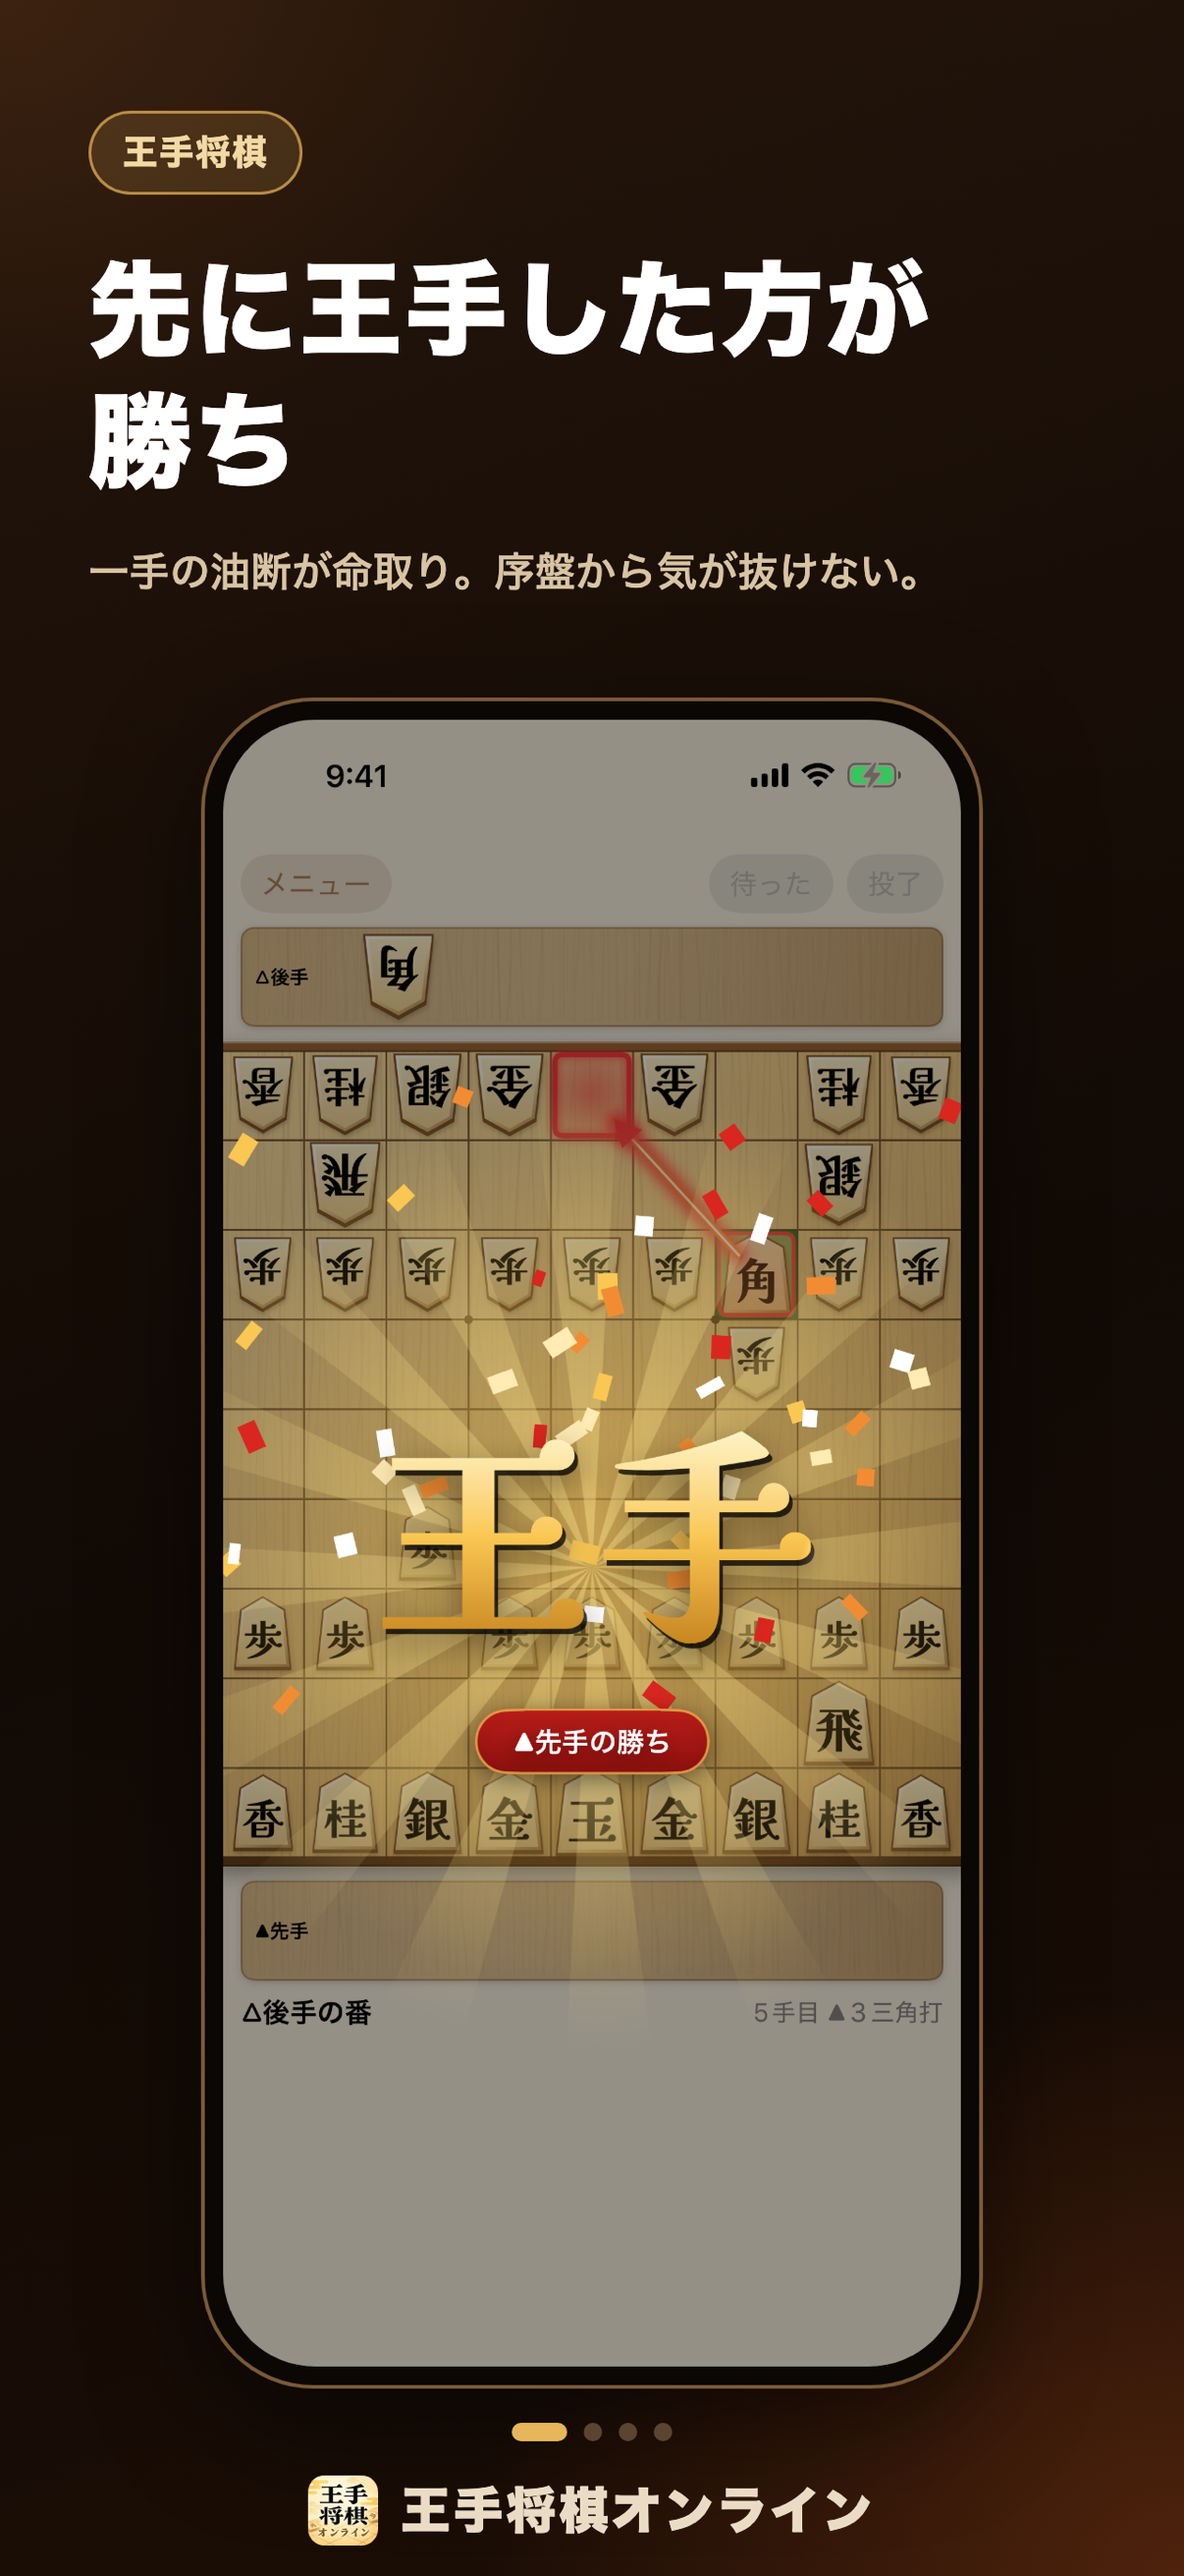
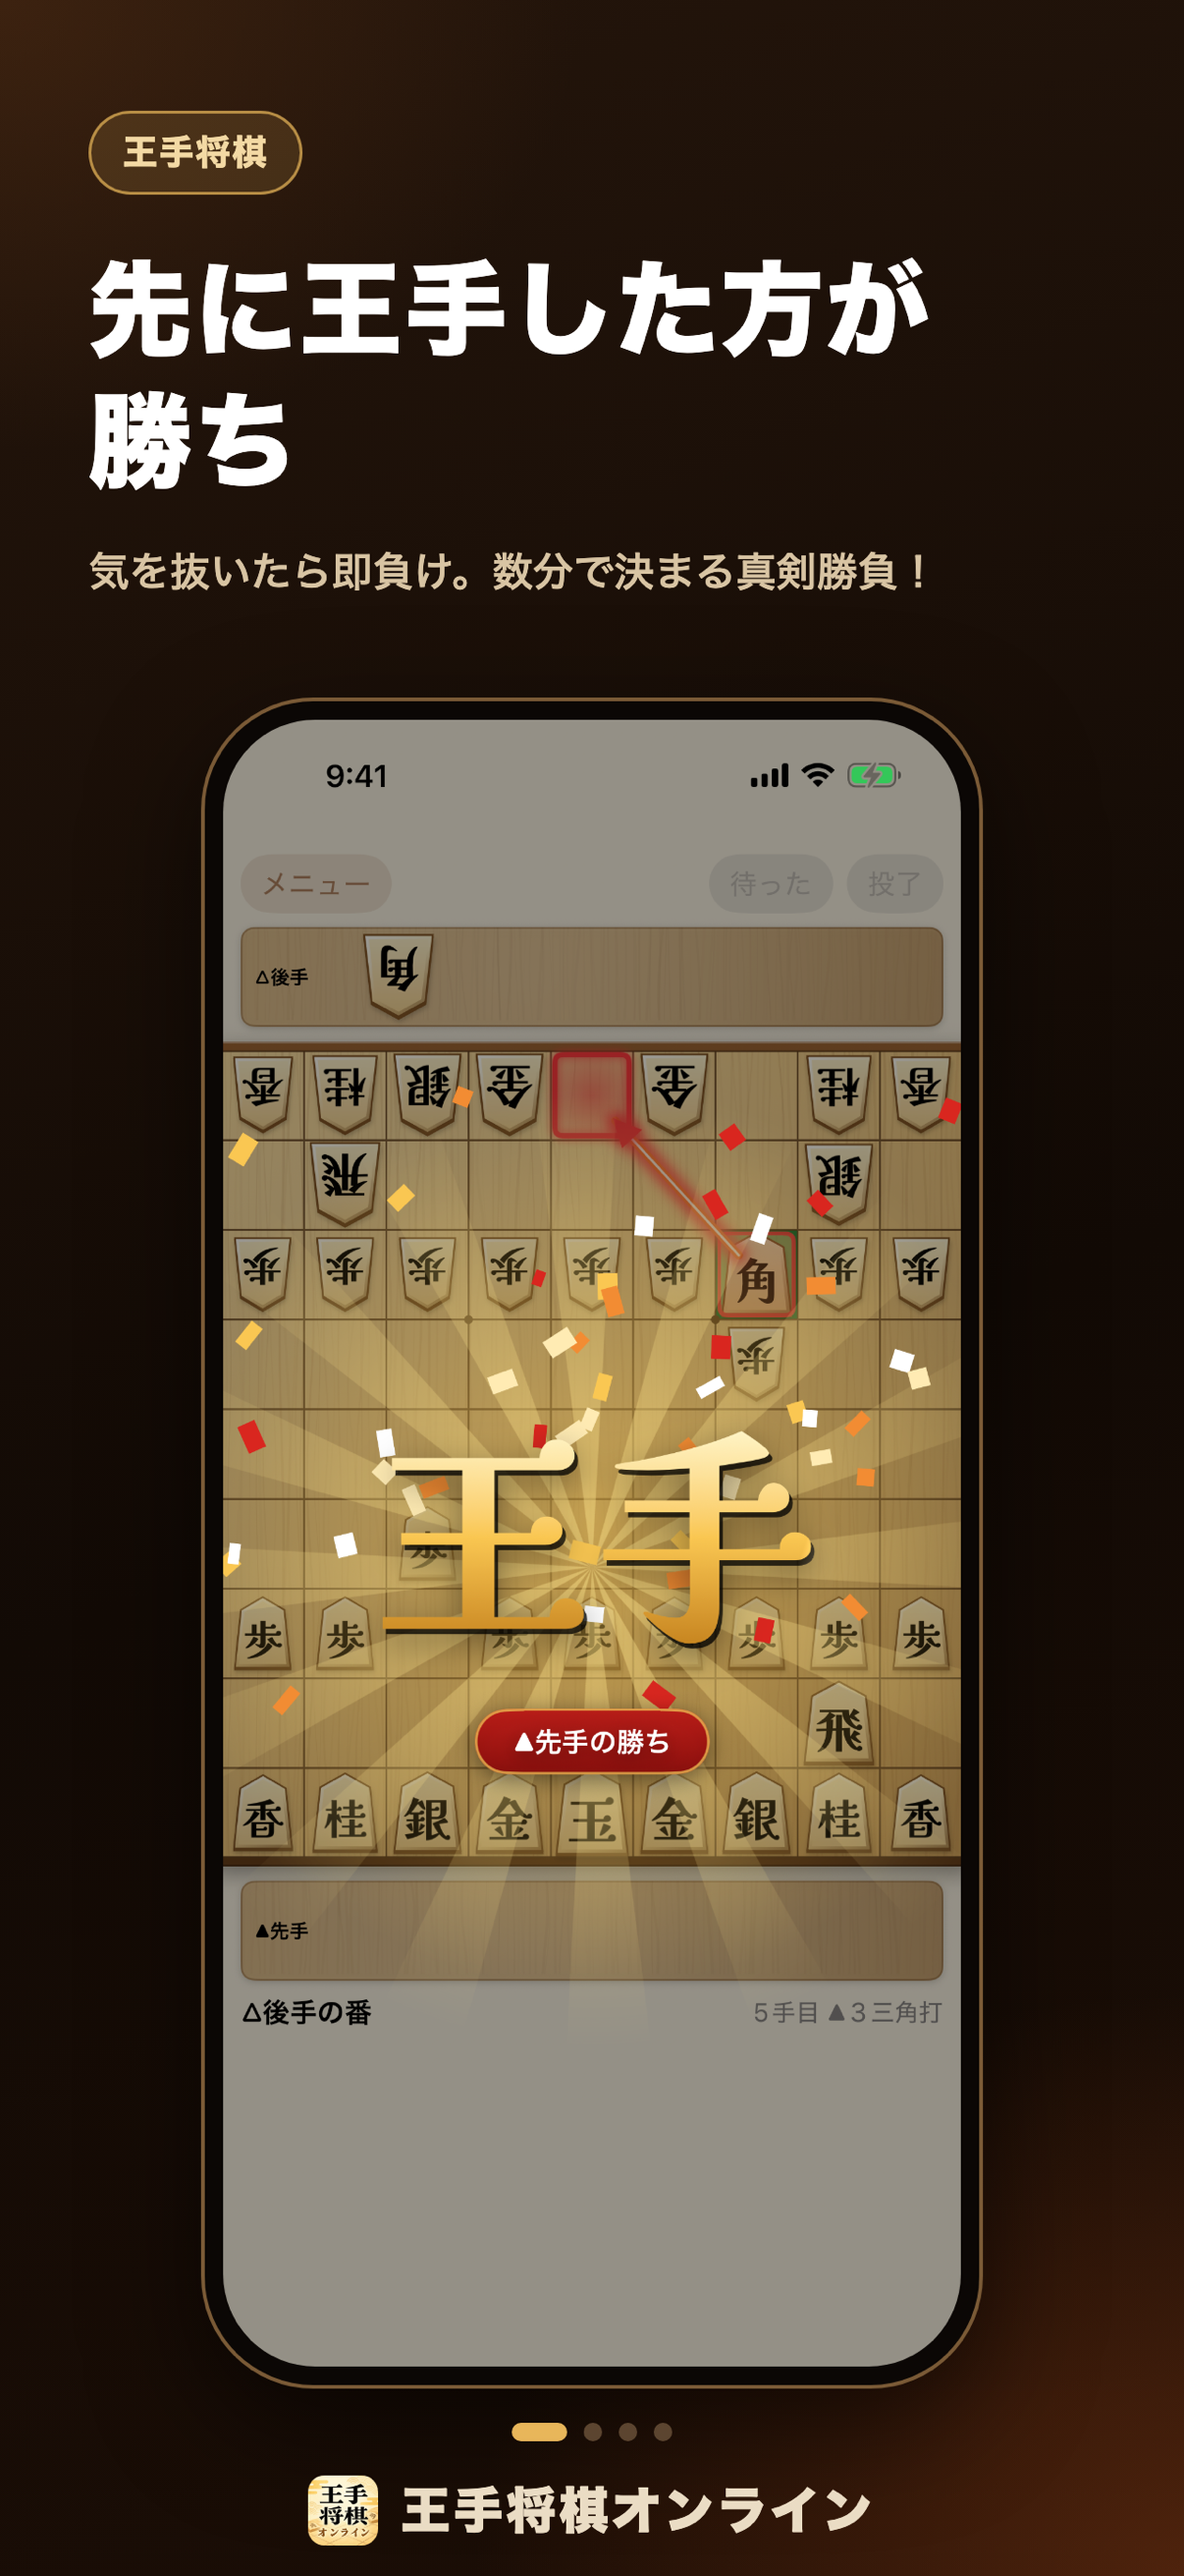
王手将棋オンライン: プロモ画像1枚目のサブタイトルを更新

Changed region(s): [[0.3988, 0.2162, 0.767, 0.2471], [0.0614, 0.2162, 0.3682, 0.2471]]

diff --git a/OuteShogiOnline/support.html b/OuteShogiOnline/support.html
@@ -101,7 +101,7 @@
 <p>オンライン対局で不適切なユーザー名を見つけた場合は、ランキングや対局結果の画面の「…」から通報・ブロックできます。そのほかの不適切な利用者の報告やお問い合わせは、下記の連絡先までお願いいたします。</p>
 
 <div class="promo-grid">
-  <img src="asset/promo_01.png" alt="先に王手した方が勝ち。一手の油断が命取り。序盤から気が抜けない。">
+  <img src="asset/promo_01.png" alt="先に王手した方が勝ち。気を抜いたら即負け。数分で決まる真剣勝負！">
   <img src="asset/promo_02.png" alt="オンラインでレート戦。勝ち上がって、ランキングの上位を目指そう！">
   <img src="asset/promo_03.png" alt="オンラインで遠くの友達と対局できる。部屋番号で遠くの友だちと。1台の端末でも遊べる。">
   <img src="asset/promo_04.png" alt="4段階のAIと対局できる。練習や肩慣らしに。先手・後手も選べる。">
